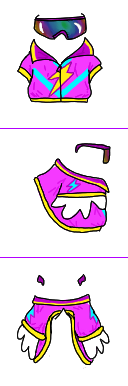
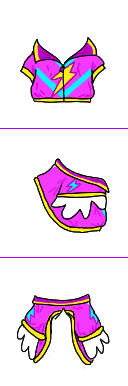
Add Arcade NPCs and accessories Fix Chicken sprite transparency Fix NPC facing not working Display mouse coordinate with /debug

diff --git a/website/game/objects/npc.js b/website/game/objects/npc.js
@@ -5,9 +5,10 @@ class NPC {
 	constructor (obj, dialogue, facing="down", roamRadius) {
 		this.obj = obj
 		obj.controller = this
+        obj.npc = true
 
         // Adjust object
-        this.obj.facing = facing
+        this.obj.dir = facing
 
         // Walk around
         this.originX = this.obj.x
@@ -21,7 +22,7 @@ class NPC {
         // Dialogue Trigger
         this.dialogue = dialogue || [""]
         let range = 50
-        this.trigger = WORLD.spawnObject("Trigger", new Trigger(PHYSICSWORLD, this.obj.x, this.obj.y, () => this.speak(), [-range,-range, range,-range, range,range, -range,range]))
+        this.trigger = WORLD.spawnObject("Trigger", new Trigger(PHYSICSWORLD, this.obj.x, this.obj.y-this.obj.shape.h/2, () => this.speak(), [-range,-range, range,-range, range,range, -range,range]))
 	}
 
 	// Update
@@ -33,7 +34,6 @@ class NPC {
             // Only walk if they aren't talking
             if (!char.bubbleTime) {
                 let distanceFromOrigin = Math.sqrt((char.x - this.originX)**2 + (char.y - this.originY)**2)
-                console.log(distanceFromOrigin)
 
                 this.walkTimer += dt
                 if (this.walkTimer > this.walkTime+this.waitTime) {
@@ -67,7 +67,7 @@ class NPC {
             }
         }
 
-        this.trigger.setPosition(char.x, char.y)
+        this.trigger.setPosition(char.x, char.y-char.shape.h/2)
 	}
 
     speak() {

diff --git a/website/game/assets.js b/website/game/assets.js
@@ -44,6 +44,7 @@ function loadGameAssets() {
 	IMG.hat = {}
 	SPRITE.hat = {}
 	IMG.hat["tophat"] = true
+	IMG.hat["visors"] = true
 
 	for (const [name, value] of Object.entries(IMG.hat)) {
 		// Load image, create sprite frames when image is loaded, and load hat centers from JSON
@@ -62,6 +63,7 @@ function loadGameAssets() {
 	IMG.accessory["scarf"] = true
 	IMG.accessory["chains"] = true
 	IMG.accessory["beefcakeaccessories"] = true
+	IMG.accessory["alesanaccessories"] = true
 
 	for (const [name, value] of Object.entries(IMG.accessory)) {
 		// Load image, create sprite frames when image is loaded, and load accessory centers from JSON
@@ -72,6 +74,7 @@ function loadGameAssets() {
 		IMG.accessory[name].center = [[0.5, 0],[0.5, 0],[0.5, 0]]
 		loadJSON(`assets/accessories/${name}.json`, (data) => {
 			IMG.accessory[name].center = data.center
+			console.log(name, data.center)
 		})
 	}
 

diff --git a/website/game/objects/character.js b/website/game/objects/character.js
@@ -156,12 +156,16 @@ class Character extends PhysicsObject {
 	drawOver() {
 		// Nametag
 		DRAW.setFont(FONT.caption, 4)
-		DRAW.setColor(255,255,255,1)
-		DRAW.text(this.name, Math.floor(this.x), Math.floor(this.y)-115, "center")
+		if (this.npc) {
+			DRAW.setColor(180,180,180,1)
+		} else {
+			DRAW.setColor(255,255,255,1)
+		}
+		DRAW.text(this.name, Math.floor(this.x), Math.floor(this.y)-126, "center")
 
 		// Chat bubble
 		if (this.bubbleText != false) {
-			let offsetY = 130
+			let offsetY = 140
 
 			// Goofy chat bubble animation
 			// Slowly embiggen bubble

diff --git a/website/game/world.js b/website/game/world.js
@@ -196,6 +196,12 @@ class World {
 		// DEBUG physics
 		if (DEBUGPHYSICS) {
 			drawPhysics(OBJECTS, PHYSICSWORLD)
+
+			// Display Corrdinates
+			let [mouseX, mouseY] = getMousePos()
+			DRAW.setColor(255,255,255,1.0)
+			DRAW.setFont(FONT.caption, false)
+			DRAW.text(`(${mouseX}, ${mouseY})`, mouseX+10, mouseY+20)
 		}
 
 		// HUD
